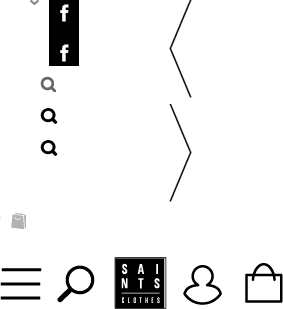
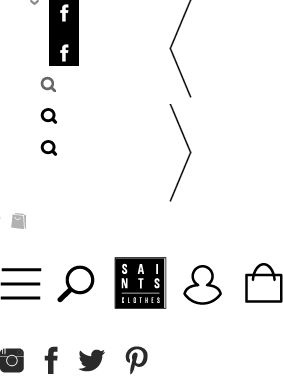
menu header

diff --git a/catalog/view/theme/vigo/stylesheet/reaponsive_767.css b/catalog/view/theme/vigo/stylesheet/reaponsive_767.css
@@ -152,9 +152,9 @@
 
     #nav a { float: none; }
 
-    .navbar-collapse.in { overflow-y:visible;}
+    .navbar-collapse.in {overflow-y:visible; top: 10px;}
 
-    .navbar-collapse { padding: 0 15px; }
+    .navbar-collapse { padding: 0 15px; top: 10px !important; }
 
 
 
@@ -434,15 +434,26 @@
 	.top-links-mobile .item-button a.home-mobile{background-position: -110px -256px;}
 	.top-links-mobile .item-button a.account-mobile{background-position: -167px -256px;}
 	.top-links-mobile .item-button a.cart-mobile{background-position: -229px -256px;}
-	    
-
+	
+	.social-menu-mobile {padding:5px}  
+    .social-menu-mobile  a {
+			display: inline-block;
+			width: 40px;
+			height: 30px;
+			text-indent: -9999px;
+			padding:2px;
+		}
+	.social-menu-mobile  a.sprite-facebook{background-position: -32px -344px;}	
+	.social-menu-mobile  a.sprite-twitter{background-position: -70px -344px;}
+	.social-menu-mobile  a.sprite-instragram{background-position: 9px -344px;}
+	.social-menu-mobile  a.sprite-pinterest{background-position: -115px -344px;}
     .navbar-collapse { position: absolute; border: 0; width: 100%; left: 0; top: 65px; z-index: 9999; }
 
     .navbar-nav {border: 0;position: static;margin: 0;border: 1px solid #eee;background: #fafafa;color: #000;}
 
     #nav_custom li { float: none; position: relative; }
 
-    #nav_custom a, #nav_custom a:hover { float: none; display: inline-block; }
+    #nav_custom a, #nav_custom a:hover {float: none;display: inline-block;}
 
     #nav_custom li.level0 { padding: 0; border-bottom: 1px solid #eee; }
 
@@ -456,7 +467,7 @@
 
     #nav_custom li.level0 ul { display: none; }
 
-    #nav_custom span.plus { display: block; position: absolute; right: 14px; top: 16px; width: 24px; height: 24px; background: url(../images/plus_icon.png) 0 0 no-repeat; border: 2px solid transparent; border-radius: 2px; -webkit-border-radius: 2px; -moz-border-radius: 2px; transition: border-color 200ms ease-in-out; -moz-transition: border-color 200ms ease-in-out; -webkit-transition: border-color 200ms ease-in-out; -o-transition: border-color 200ms ease-in-out; }
+    #nav_custom span.plus {/* display: block; */position: absolute;right: 14px;top: 16px;width: 24px;height: 24px;background: url(../images/plus_icon.png) 0 0 no-repeat;border: 2px solid transparent;border-radius: 2px;-webkit-border-radius: 2px;-moz-border-radius: 2px;transition: border-color 200ms ease-in-out;-moz-transition: border-color 200ms ease-in-out;-webkit-transition: border-color 200ms ease-in-out;-o-transition: border-color 200ms ease-in-out;}
 
     #nav_custom span.plus.expanded { background-position: 0 -20px; }
 
@@ -481,7 +492,7 @@
     /* ++ */
 
     #nav_custom li.level0 {max-height: 100%;color: #000;}
-    #nav_custom span{ color: #000}
+    #nav_custom span{color: #000;font-weight: normal;}
 
     #nav_custom ul.level1{ margin-left:2px;background-color:#eee; background-image:none;max-width: 100%;}
 
@@ -497,9 +508,9 @@
     
     
     
-    .navbar.sticky-menu{ top: 48px !important; background-color: #fff;background-image:none; z-index: 100; height: 50px;position: fixed;} 
+    .navbar.sticky-menu{top: 0px !important;background-color: #fff;background-image:none;z-index: 100;height: 50px;position: fixed;} 
     .navbarhome {top: 48px !important;}
-    .navbarhome.sticky-menu{top: 48px !important;}
+    .navbarhome.sticky-menu{/* top: 48px !important; */}
     .navbar.sticky-menu span{color:#000 !important}
 
     .main-container {margin-top: 106px !important;}

diff --git a/catalog/view/theme/vigo/stylesheet/reaponsive_991.css b/catalog/view/theme/vigo/stylesheet/reaponsive_991.css
@@ -139,9 +139,9 @@
     
     
     
-    .navbar.sticky-menu{ top: 48px !important; background-color: #fff;background-image:none; z-index: 100; height: 50px;position: fixed;} 
+    .navbar.sticky-menu{/* top: 48px !important; */background-color: #fff;background-image:none;z-index: 100;height: 50px;position: fixed;} 
     .navbarhome {top: 48px !important;}
-    .navbarhome.sticky-menu{top: 48px !important;}
+    .navbarhome.sticky-menu{/* top: 48px !important; */}
     .navbar.sticky-menu span{color: #000 !important;}
     .navbar.sticky-menu span:hover{color: #fff !important;}
 

diff --git a/catalog/view/theme/vigo/stylesheet/style.css b/catalog/view/theme/vigo/stylesheet/style.css
@@ -1331,7 +1331,7 @@ tr.summary-details-excluded { font-style:italic; }
 
 .container > .navbar-header { margin: 0 auto;  }
 
-.container > .navbar-collapse { margin: 0 auto; border: 0; }
+.container > .navbar-collapse {/* margin: 0 auto; */border: 0;}
 
 .navbar-default .navbar-toggle:hover, .navbar-default .navbar-toggle:focus { background: transparent; }
 
